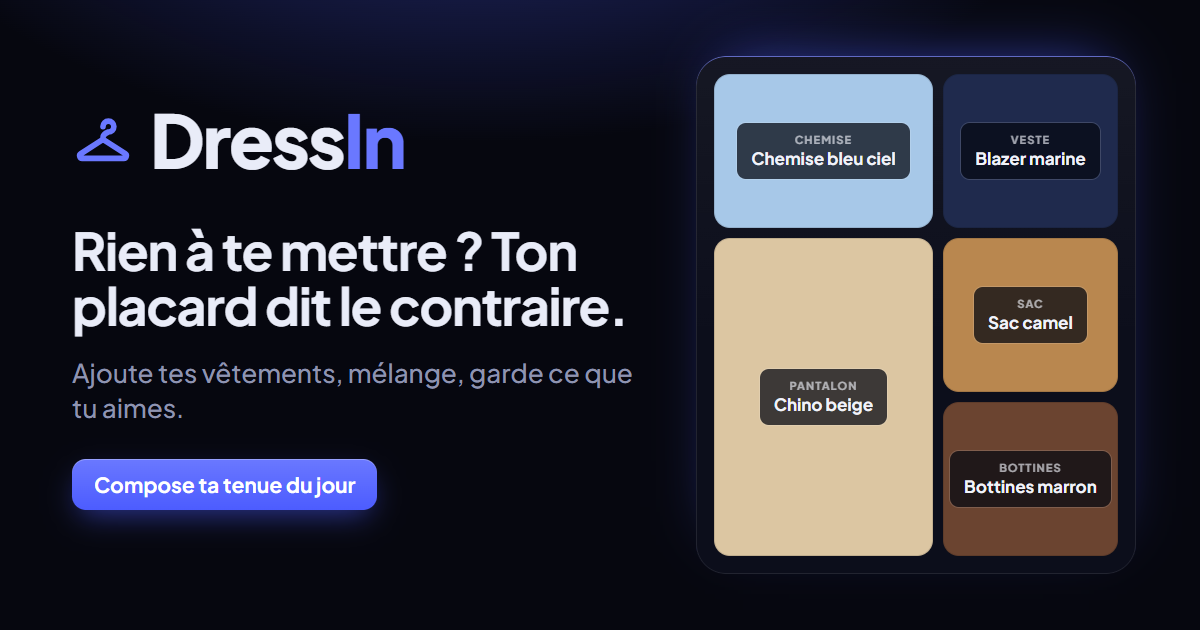
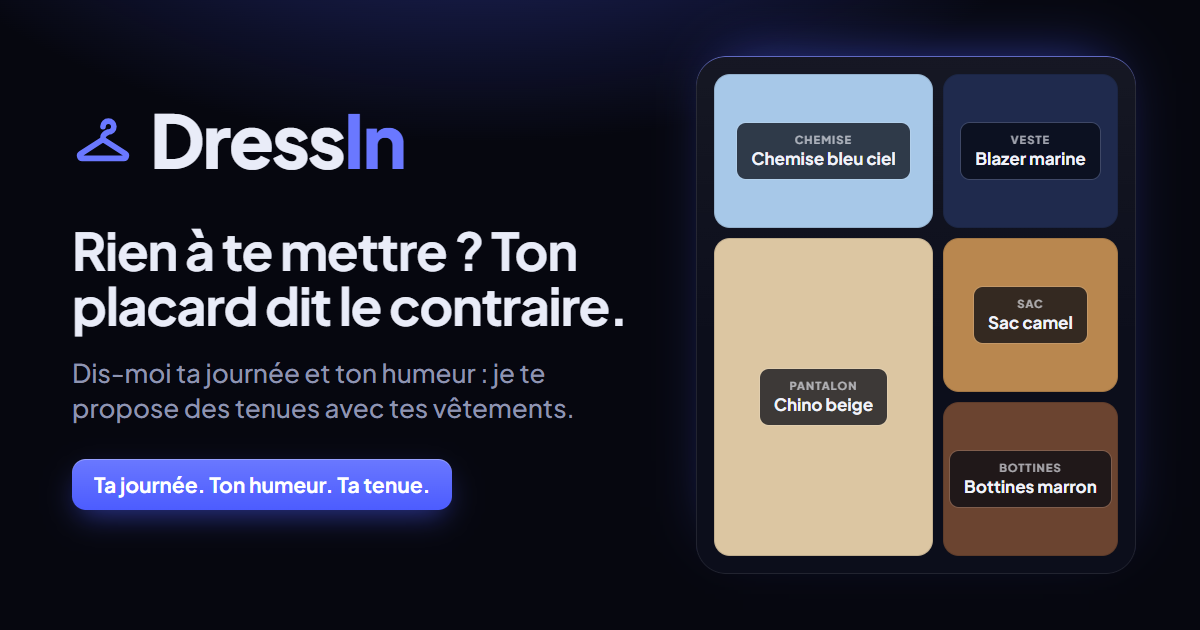
DressIn déménage sur dressin-app.github.io
Les nouveaux visiteurs sont redirigés vers la nouvelle adresse ; ceux qui ont déjà un dressing ici
voient un bandeau pour exporter leur sauvegarde avant de partir.

Changed region(s): [[0.0617, 0.573, 0.5242, 0.6635], [0.0617, 0.7238, 0.4008, 0.8444]]

diff --git a/index.html b/index.html
@@ -3,13 +3,13 @@
 <head>
 <meta charset="utf-8">
 <meta name="viewport" content="width=device-width,initial-scale=1,viewport-fit=cover">
-<meta name="description" content="Compose tes tenues avec les vêtements que tu as déjà : ajoute tes pièces en photo, mélange, garde ce que tu aimes.">
+<meta name="description" content="Des idées de tenues avec les vêtements que tu as déjà, selon ta journée, ton humeur et tes envies.">
 <meta name="theme-color" content="#06070F">
 <meta property="og:type" content="website">
 <meta property="og:title" content="DressIn">
-<meta property="og:description" content="Compose tes tenues avec les vêtements que tu as déjà : ajoute tes pièces en photo, mélange, garde ce que tu aimes.">
-<meta property="og:url" content="https://s2aasmarketexp.github.io/penderie/">
-<meta property="og:image" content="https://s2aasmarketexp.github.io/penderie/og-image.png">
+<meta property="og:description" content="Des idées de tenues avec les vêtements que tu as déjà, selon ta journée, ton humeur et tes envies.">
+<meta property="og:url" content="https://dressin-app.github.io/">
+<meta property="og:image" content="https://dressin-app.github.io/og-image.png">
 <meta property="og:image:width" content="1200">
 <meta property="og:image:height" content="630">
 <meta name="twitter:card" content="summary_large_image">
@@ -708,8 +708,43 @@ select.pd-sel { padding: 7px 4px 7px 8px; font-size: 12.5px; border-radius: 10px
   .tab .count { display: none; }
 }
 </style>
+<link rel="canonical" href="https://dressin-app.github.io/">
 </head>
 <body>
+<script>
+/* DressIn a déménagé : sans dressing enregistré ici, on part directement à la nouvelle adresse */
+(function () {
+  var NEW = 'https://dressin-app.github.io/';
+  var known = false;
+  try { for (var i = 0; i < localStorage.length; i++) { if (/^(dressin\.|penderie)/.test(localStorage.key(i))) { known = true; break; } } } catch (e) { /* stockage bloqué */ }
+  if (!known) { location.replace(NEW + location.hash); return; }
+  var bar = document.createElement('div');
+  bar.id = 'moved';
+  bar.setAttribute('role', 'status');
+  bar.innerHTML = '<b>DressIn a une nouvelle adresse : dressin-app.github.io</b>'
+    + '<span>Ton dressing est enregistré sur cette ancienne adresse. Pour le garder : exporte ta sauvegarde ici, puis importe-la sur la nouvelle adresse (Compte, « Importer une sauvegarde »).</span>'
+    + '<span class="mv-act"><button type="button" id="mv-export">Exporter ma sauvegarde</button><a href="' + NEW + '">Aller sur la nouvelle adresse</a></span>'
+    + '<button type="button" id="mv-close" aria-label="Masquer ce message">×</button>';
+  document.body.appendChild(bar);
+  document.getElementById('mv-close').addEventListener('click', function () { bar.remove(); });
+  document.getElementById('mv-export').addEventListener('click', function () {
+    var tab = document.getElementById('tab-compte');
+    if (tab) tab.click();
+    setTimeout(function () { var b = document.querySelector('[data-export]'); if (b) b.click(); }, 300);
+  });
+})();
+</script>
+<style>
+#moved { position: fixed; left: 12px; right: 12px; bottom: calc(12px + env(safe-area-inset-bottom, 0px)); z-index: 9999; max-width: 620px; margin: 0 auto; display: flex; flex-direction: column; gap: 6px;
+  padding: 14px 16px; border-radius: 16px; position: fixed; background: #121530; color: #E9ECF8; font: 500 14px/1.4 'Plus Jakarta Sans', system-ui, sans-serif; box-shadow: 0 0 0 1px rgba(106, 120, 255, .55), 0 20px 50px -10px rgba(0, 0, 0, .7); }
+#moved b { font-size: 15px; padding-right: 28px; }
+#moved #mv-close { position: absolute; top: 8px; right: 8px; width: 30px; height: 30px; padding: 0; border-radius: 50%; background: rgba(255, 255, 255, .08); color: #E9ECF8; font-size: 18px; line-height: 1; }
+#moved span { color: #B9BEDA; }
+#moved .mv-act { display: flex; flex-wrap: wrap; gap: 8px; margin-top: 4px; }
+#moved button, #moved a { appearance: none; border: 0; border-radius: 10px; padding: 9px 13px; font: 700 13.5px 'Plus Jakarta Sans', system-ui, sans-serif; cursor: pointer; text-decoration: none; }
+#moved button { background: #4C5CFF; color: #fff; }
+#moved a { background: rgba(255, 255, 255, .08); color: #E9ECF8; }
+</style>
 <header class="top">
   <div class="wrap">
     <a class="brand" href="#atelier" data-goto="atelier" aria-label="DressIn, accueil">
